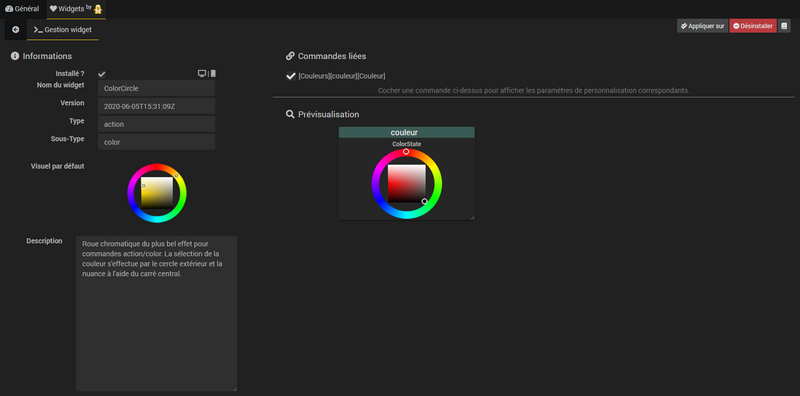
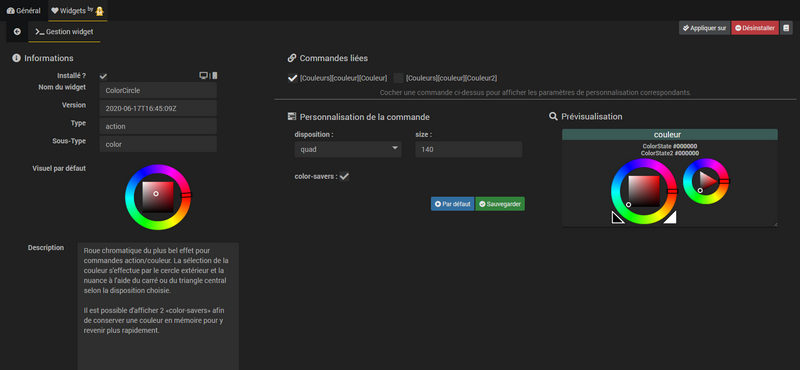
rewrite ColorCircle documentation + add ColorSlider + IconInfo + Iconaction documentations

diff --git a/IconAction/index.html b/IconAction/index.html
@@ -1,0 +1,3 @@
+<script>
+window.location.href = 'fr_FR/';
+</script>

diff --git a/IconInfo/index.html b/IconInfo/index.html
@@ -1,0 +1,3 @@
+<script>
+window.location.href = 'fr_FR/';
+</script>

diff --git a/IconInfo/fr_FR/index.md b/IconInfo/fr_FR/index.md
@@ -1,15 +1,15 @@
 ---
 layout: default
-title: ColorCircle
+title: IconInfo
 lang: fr_FR
-pluginId: ColorCircle
-type: action
-subtype: couleur
+pluginId: IconInfo
+type: info
+subtype: binaire
 ---
 
 # Description
 
-Roue chromatique du plus bel effet pour commandes {{page.type}}/{{page.subtype}}. La sélection de la couleur s'effectue par le cercle extérieur et la nuance à l'aide de la partie centrale.
+Visualisez l'état de vos équipements d'un coup d'oeil grâce à ce widget permettant d'afficher une image différente selon l'état 0 ou 1 d'une commande {{page.type}}/{{page.subtype}}.
 
 ![{{page.pluginId}} - gif]({{site.baseurl}}/{{page.pluginId}}/img/{{page.pluginId}}.gif "{{page.pluginId}} - gif")
 
@@ -39,14 +39,27 @@ En cas de mise à jour du code du widget il est nécessaire de télécharger les
 
 ## Liste des paramètres disponibles
 
-* ### disposition
-Permet de choisir la forme de la partie centrale entre un carré ou un triangle : **quad** ou **triangle** *(quad par défaut)*
+* ### height
+Valeur en pixels permettant de modifier la hauteur de l'image. *(75 par défaut)*
 
-* ### size
-Valeur en pixels permettant de modifier la taille du widget. *(140 par défaut)*
+* ### width
+Valeur en pixels permettant de modifier la largeur de l'image. *(75 par défaut)*
 
-* ### color-savers
-Permet d'afficher 2 zones permettant de conserver une couleur en mémoire. **checked** ou **unchecked** *(unchecked par défaut)*
+* ### image
+Pour sélectionner l'image à afficher sur le widget. *(default par défaut)*
+
+> **187 visuels sont disponibles**    
+*airpur, ambilight, ambilight2, ampli, amplihc, aquarium, arrosage, aspirateur, aspixiaomi, bal, barreson, bbox, bbox2, bboxtv, bluray, box, broadlinkair, broadlinkmini, broadlinkprise, broadlinkpro, cafetiere, cam1, cam2, cam3, cam4, camext, cave, cave2, chainehifi, chauffage, chromecast, congelateur, ds918, dvd, echob, echodot, echog, echospotb, echospotw, echow, ecranproj, free, freeadsl, freebox, freeboxtv, freedelta, freewifi, frigo, frigo2, gateway, ghome, gminig, gminin, gminio, gps, hotte, hp, huev1, huev2, impr, imprimante, imprimante2, imprlaser, ipad, iphone4, jeedom, jeedomm, jeedoms1, jeedoms2, jeedoms3, jeedomsmart, jpi, kodi, kodi2, lavelinge, lavevaisselle, lgg3, linux, livebox, livebox2, livebox4, lvaisselle, mac, machinealaver, machinelaver, moustiques, nas, note8, nswitch, nuc, onetouch, orange, orvibo, paw, pc, pc2, pharmacie, playstation, playstation2, plex, pms, poele, pompe, portapple, portwin, poulailler, prise, raspbmc, raspi, refrigerateur, repwifi, repwifi2, routeur, routeur2, routeur3, sapin, sarah, sechelinge, secheserviette, sfr, sfrbox, slinge, sonosbeamB, sonosbeamW, sonosoneB, sonosoneW, sonosplayB, sonosplayW,  subwoofer, switch, synow, synob, synort1900, synort2600, tab4, tv, tv2, videoproj, vmc, wii, wiiu, xbmc, xbmc2, xbox, xbox2, xpenology, zibase*.
+
+> **A savoir**    
+Il est possible d'inclure les images de son choix en plaçant le(s) fichier(s) `*.png` dans le répertoire **/data/img/{{page.pluginId}}/**.    
+Les images doivent être nommées "**type**\_*on.png*" & "**type**\_*off.png*".
+
+* ### time
+Pour visualiser les informations de temps depuis le dernier changement d'état. 3 formats sont possibles : **duration** affiche la durée, **date** affiche le jour et l'heure, **hour** affiche l'heure avec les secondes du dernier changement d'état. *(off par défaut)*
+
+* ### CSS-time
+Permet de personnaliser la présentation du paramètre **time** en code CSS.
 
 ## Avec le plugin Pimp my Jeedom
 
@@ -56,6 +69,9 @@ Rendez vous sur la page du widget dans le plugin. Sélectionnez la commande que 
 
 ![{{page.pluginId}} - Params_pimpJeedom]({{site.baseurl}}/{{page.pluginId}}/img/{{page.pluginId}}_Params_pimpJeedom.png "{{page.pluginId}} - Params_pimpJeedom")
 
+> **Info**    
+Le bouton **Envoyer une image** présent sur la page du widget permet d'ajouter des images directement dans le répertoire **/data/img/{{page.pluginId}}/** et de les retrouver dans la liste des choix possibles.
+
 ## Manuellement
 
 Pour appliquer de nouveaux paramètres optionnels, il faut se rendre dans la configuration de la commande puis onglet *Affichage* -> **Paramètres optionnels widget**.    
@@ -63,13 +79,9 @@ Cliquez sur **Ajouter** et renseigner le nom et la valeur de chaque paramètre :
 
 ![{{page.pluginId}} - Params_exemple]({{site.baseurl}}/{{page.pluginId}}/img/{{page.pluginId}}_Params_Example.png "{{page.pluginId}} - Params_exemple")
 
-# Sources
-
-Ce widget a été réalisé à partir de la librairie [Kelly ColorPicker](https://github.com/NC22/HTML5-Color-Picker){:target="\_blank"}.
-
 # Sur le forum
 
-[Accéder au sujet sur le forum](https://community.jeedom.com/t/salvialf-widget-colorcircle-action-couleur/22773){:target="\_blank"}
+[Accéder au sujet sur le forum](https://community.jeedom.com/t/salvialf-widget-iconinfo-info-binaire/7970){:target="\_blank"}
 
 # Changelog
 

diff --git a/ColorSlider/fr_FR/index.md b/ColorSlider/fr_FR/index.md
@@ -7,6 +7,93 @@ type: action
 subtype: couleur
 ---
 
+# Description
+
+Roue chromatique proposant diverses options de disposition et d'affichage sur base de sliders.
+
+![{{page.pluginId}} - gif]({{site.baseurl}}/{{page.pluginId}}/img/{{page.pluginId}}.gif "{{page.pluginId}} - gif")
+
+# Installation et mises à jour
+
+## Avec le plugin Pimp my Jeedom
+
+![{{page.pluginId}} - Pimp my Jeedom]({{site.baseurl}}/{{page.pluginId}}/img/{{page.pluginId}}_pimpJeedom.png "{{page.pluginId}} - Pimp my Jeedom")
+
+L'installation est aisée grâce au plugin [Pimp my Jeedom]({{site.market}}/index.php?v=d&plugin_id=4005){:target="\_blank"}, rendez vous sur la page du widget et cliquez sur le bouton **Installer**.
+
+Pour appliquer le widget sur une ou plusieurs commandes, cliquez sur le bouton **Appliquer sur** et choisissez les commandes qui utiliseront le widget avant de cliquer sur **Valider**.
+
+Le plugin vérifie automatiquement la disponibilité d'une mise à jour pour le widget et vous en informe directement dans Jeedom. En présence d'une mise à jour disponible, il suffit de se rendre sur la page du widget dans le plugin et cliquer sur le bouton **Mettre à jour**.
+
+## Manuellement
+
+Les fichiers peuvent être récupérés dans un dossier compressé via ce lien : [{{page.pluginId}}_Widget-Jeedom.zip](https://github.com/Salvialf/JEEDOM-Widget-{{page.pluginId}}/raw/master/{{page.pluginId}}_WidgetJeedom.zip).
+
+Les répertoires `dashboard` et `mobile` <small>(si disponible)</small> doivent être copiés dans le répertoire `data/customTemplates/` à l'aide du plugin *JeeXplorer*.
+
+Appliquer le widget sur une commande {{page.type}}/{{page.subtype}} à partir de l’onglet *Affichage* de la configuration de la commande, en choisissant **Customtemp/{{page.pluginId}}** dans le menu déroulant.
+
+En cas de mise à jour du code du widget il est nécessaire de télécharger les nouveaux fichiers et de les copier dans le répertoire `data/customTemplates/` en remplacement des anciens fichiers.
+
+# Les paramètres optionnels
+
+## Liste des paramètres disponibles
+
+* ### hue
+Permet de choisir la forme de la roue chromatique : **wheel**, **slider**, **circle** ou **off** *(wheel par défaut)*
+
+* ### value
+Permet de choisir la forme du sélecteur de teinte : **slider**, **box**, **circle** ou **off** *(slider par défaut)*
+
+* ### saturation
+Permet de choisir la forme du sélecteur de saturation : **slider**, **circle** ou **off** *(off par défaut)*
+
+* ### slider-size
+Pour choisir l'épaisseur des sliders. *(20 par défaut)*
+
+* ### disposition
+Permet de choisir la disposition des éléments : **vertical** ou **horizontal** *(vertical par défaut)*
+
+* ### wheel-angle
+Permet de choisir l'orientation de la roue chromatique. *(0 par défaut)*
+
+* ### size
+Valeur en pixels permettant de modifier la taille du widget. *(140 par défaut)*
+
+* ### margin
+Valeur en pixels permettant de modifier l'espace entre les différents éléments'. *(10 par défaut)*
+
+* ### handle-size
+Valeur en pixels permettant de modifier la taille du rond sélecteur. *(9 par défaut)*
+
+* ### handle-padding
+Valeur en pixels permettant de modifier l'écartement du rond sélecteur par rapport aux bords de la roue chromatique. *(2 par défaut)*
+
+* ### border-size
+Valeur en pixels permettant de modifier la taille de la bordure des différents éléments. *(0 par défaut)*
+
+* ### border-color
+Permet de choisir la couleur de la bordure des différents éléments. *(white par défaut)*
+
+## Avec le plugin Pimp my Jeedom
+
+Le plugin [Pimp my Jeedom]({{site.market}}/index.php?v=d&plugin_id=4005){:target="\_blank"} rend l'usage et la configuration des paramètres optionnels très simple et rapide.
+
+Rendez vous sur la page du widget dans le plugin. Sélectionnez la commande que vous souhaitez personnaliser en cochant la case présente juste avant le nom de la commande pour ouvrir le panneau de personnalisation :
+
+![{{page.pluginId}} - Params_pimpJeedom]({{site.baseurl}}/{{page.pluginId}}/img/{{page.pluginId}}_Params_pimpJeedom.png "{{page.pluginId}} - Params_pimpJeedom")
+
+## Manuellement
+
+Pour appliquer de nouveaux paramètres optionnels, il faut se rendre dans la configuration de la commande puis onglet *Affichage* -> **Paramètres optionnels widget**.    
+Cliquez sur **Ajouter** et renseigner le nom et la valeur de chaque paramètre :
+
+![{{page.pluginId}} - Params_exemple]({{site.baseurl}}/{{page.pluginId}}/img/{{page.pluginId}}_Params_Example.png "{{page.pluginId}} - Params_exemple")
+
+# Sources
+
+Ce widget a été réalisé à partir de la librairie [iro.js](https://iro.js.org){:target="\_blank"}.
+
 # Changelog
 
 [Voir le changelog]({{site.baseurl}}/{{page.pluginId}}/{{page.lang}}/changelog)

diff --git a/IconAction/fr_FR/index.md b/IconAction/fr_FR/index.md
@@ -1,15 +1,15 @@
 ---
 layout: default
-title: ColorCircle
+title: IconAction
 lang: fr_FR
-pluginId: ColorCircle
+pluginId: IconAction
 type: action
-subtype: couleur
+subtype: défaut
 ---
 
 # Description
 
-Roue chromatique du plus bel effet pour commandes {{page.type}}/{{page.subtype}}. La sélection de la couleur s'effectue par le cercle extérieur et la nuance à l'aide de la partie centrale.
+Widget qui permet un toggle d'icône sur les commandes {{page.type}}/{{page.subtype}} (*ON* ou *OFF*) pour commander un équipement tout en en reflétant l'état.
 
 ![{{page.pluginId}} - gif]({{site.baseurl}}/{{page.pluginId}}/img/{{page.pluginId}}.gif "{{page.pluginId}} - gif")
 
@@ -39,14 +39,27 @@ En cas de mise à jour du code du widget il est nécessaire de télécharger les
 
 ## Liste des paramètres disponibles
 
-* ### disposition
-Permet de choisir la forme de la partie centrale entre un carré ou un triangle : **quad** ou **triangle** *(quad par défaut)*
+* ### height
+Valeur en pixels permettant de modifier la hauteur de l'image. *(75 par défaut)*
 
-* ### size
-Valeur en pixels permettant de modifier la taille du widget. *(140 par défaut)*
+* ### width
+Valeur en pixels permettant de modifier la largeur de l'image. *(75 par défaut)*
 
-* ### color-savers
-Permet d'afficher 2 zones permettant de conserver une couleur en mémoire. **checked** ou **unchecked** *(unchecked par défaut)*
+* ### image
+Pour sélectionner l'image à afficher sur le widget. *(default par défaut)*
+
+> **31 visuels sont disponibles**    
+*ampli, ampli2, ampoule, applique, applique2, aquarium, barreson, bluray, chainehifi, dvd, freewifi, kodi, lampadaire, lampe, lum1, lum2, lum3, lumext, nswitch, playstation, prise, rad, sapin, spot, tv, wallplug, wii, xbox*.
+
+> **A savoir**    
+Il est possible d'inclure les images de son choix en plaçant le(s) fichier(s) `*.png` dans le répertoire **/data/img/{{page.pluginId}}/**.    
+Les images doivent être nommées "**type**\_*on.png*" & "**type**\_*off.png*".
+
+* ### time
+Pour visualiser les informations de temps depuis le dernier changement d'état. 3 formats sont possibles : **duration** affiche la durée, **date** affiche le jour et l'heure, **hour** affiche l'heure avec les secondes du dernier changement d'état. *(off par défaut)*
+
+* ### CSS-time
+Permet de personnaliser la présentation du paramètre **time** en code CSS.
 
 ## Avec le plugin Pimp my Jeedom
 
@@ -56,6 +69,9 @@ Rendez vous sur la page du widget dans le plugin. Sélectionnez la commande que 
 
 ![{{page.pluginId}} - Params_pimpJeedom]({{site.baseurl}}/{{page.pluginId}}/img/{{page.pluginId}}_Params_pimpJeedom.png "{{page.pluginId}} - Params_pimpJeedom")
 
+> **Info**    
+Le bouton **Envoyer une image** présent sur la page du widget permet d'ajouter des images directement dans le répertoire **/data/img/{{page.pluginId}}/** et de les retrouver dans la liste des choix possibles.
+
 ## Manuellement
 
 Pour appliquer de nouveaux paramètres optionnels, il faut se rendre dans la configuration de la commande puis onglet *Affichage* -> **Paramètres optionnels widget**.    
@@ -63,13 +79,9 @@ Cliquez sur **Ajouter** et renseigner le nom et la valeur de chaque paramètre :
 
 ![{{page.pluginId}} - Params_exemple]({{site.baseurl}}/{{page.pluginId}}/img/{{page.pluginId}}_Params_Example.png "{{page.pluginId}} - Params_exemple")
 
-# Sources
-
-Ce widget a été réalisé à partir de la librairie [Kelly ColorPicker](https://github.com/NC22/HTML5-Color-Picker){:target="\_blank"}.
-
 # Sur le forum
 
-[Accéder au sujet sur le forum](https://community.jeedom.com/t/salvialf-widget-colorcircle-action-couleur/22773){:target="\_blank"}
+[Accéder au sujet sur le forum](https://community.jeedom.com/t/salvialf-widget-iconinfo-info-binaire/7970){:target="\_blank"}
 
 # Changelog
 

diff --git a/index/fr_FR/index.md b/index/fr_FR/index.md
@@ -85,6 +85,24 @@ De superbes jauges animées et colorées pour vos commandes info/numériques.
 - [Documentation]({{site.baseurl}}/GaugeIMG/{{page.lang}})
 - [Changelog]({{site.baseurl}}/GaugeIMG/{{page.lang}}/changelog)
 
+## IconAction (action/défaut)
+
+[<img width="90" src="../../IconAction/img/IconAction.png">]({{site.baseurl}}/IconAction/{{page.lang}})
+
+Widget qui permet un toggle d'icône sur les commandes action/autre ON & OFF.
+
+- [Documentation]({{site.baseurl}}/IconAction/{{page.lang}})
+- [Changelog]({{site.baseurl}}/IconAction/{{page.lang}}/changelog)
+
+## IconInfo (info/binaire)
+
+[<img width="90" src="../../IconInfo/img/IconInfo.png">]({{site.baseurl}}/IconInfo/{{page.lang}})
+
+Visualisez l'état de vos équipements d'un coup d'oeil grâce à ce widget permettant d'afficher une image différente selon l'état (0 ou 1) d'une commande info/binaire.
+
+- [Documentation]({{site.baseurl}}/IconInfo/{{page.lang}})
+- [Changelog]({{site.baseurl}}/IconInfo/{{page.lang}}/changelog)
+
 ## Linky (info/numérique)
 
 [<img width="90" src="../../Linky/img/Linky.png">]({{site.baseurl}}/Linky/{{page.lang}})

diff --git a/PresenceData/fr_FR/index.md b/PresenceData/fr_FR/index.md
@@ -46,7 +46,7 @@ Valeur en pixels permettant de modifier la hauteur de l'image. *(90 par défaut)
 Valeur en pixels permettant de modifier la largeur de l'image. *(90 par défaut)*
 
 * ### image
-Pour choisir la taille de la date en pixels. **default** ou **woman** *(default par défaut)*
+Pour sélectionner l'image à afficher sur le widget. **default** ou **woman** *(default par défaut)*
 > **A savoir**    
 Il est possible d'inclure les images de son choix en plaçant le(s) fichier(s) `*.png` dans le répertoire **/data/img/{{page.pluginId}}/**.    
 Les images doivent être nommées "**Nom**\_*on.png*" & "**Nom**\_*off.png*".

diff --git a/ColorCircle/fr_FR/changelog.md b/ColorCircle/fr_FR/changelog.md
@@ -7,9 +7,15 @@ pluginId: ColorCircle
 
 # Changelog
 
+## 09-07-2020
+
+- Réécriture complète du widget avec une nouvelle librairie.
+- Le widget n'utilise plus d'images.
+- Ajout de 3 paramètres optionnels : **disposition**, **size**, **color-savers**.
+
 ## 03-04-2020
 
-- Partage du widget sur Community
+- Partage du widget sur Community.
 
 # Documentation
 

diff --git a/IconAction/fr_FR/changelog.md b/IconAction/fr_FR/changelog.md
@@ -1,15 +1,15 @@
 ---
 layout: default
-title: ColorSlider changelog
+title: IconAction changelog
 lang: fr_FR
-pluginId: ColorSlider
+pluginId: IconAction
 ---
 
 # Changelog
 
-## 09-07-2020
+## 27-11-2019
 
-- Ajout du widget au plugin Pimp my jeedom
+- Partage du widget sur Community
 
 # Documentation
 

diff --git a/IconInfo/fr_FR/changelog.md b/IconInfo/fr_FR/changelog.md
@@ -1,15 +1,15 @@
 ---
 layout: default
-title: ColorSlider changelog
+title: IconInfo changelog
 lang: fr_FR
-pluginId: ColorSlider
+pluginId: IconInfo
 ---
 
 # Changelog
 
-## 09-07-2020
+## 15-11-2019
 
-- Ajout du widget au plugin Pimp my jeedom
+- Partage du widget sur Community
 
 # Documentation
 
